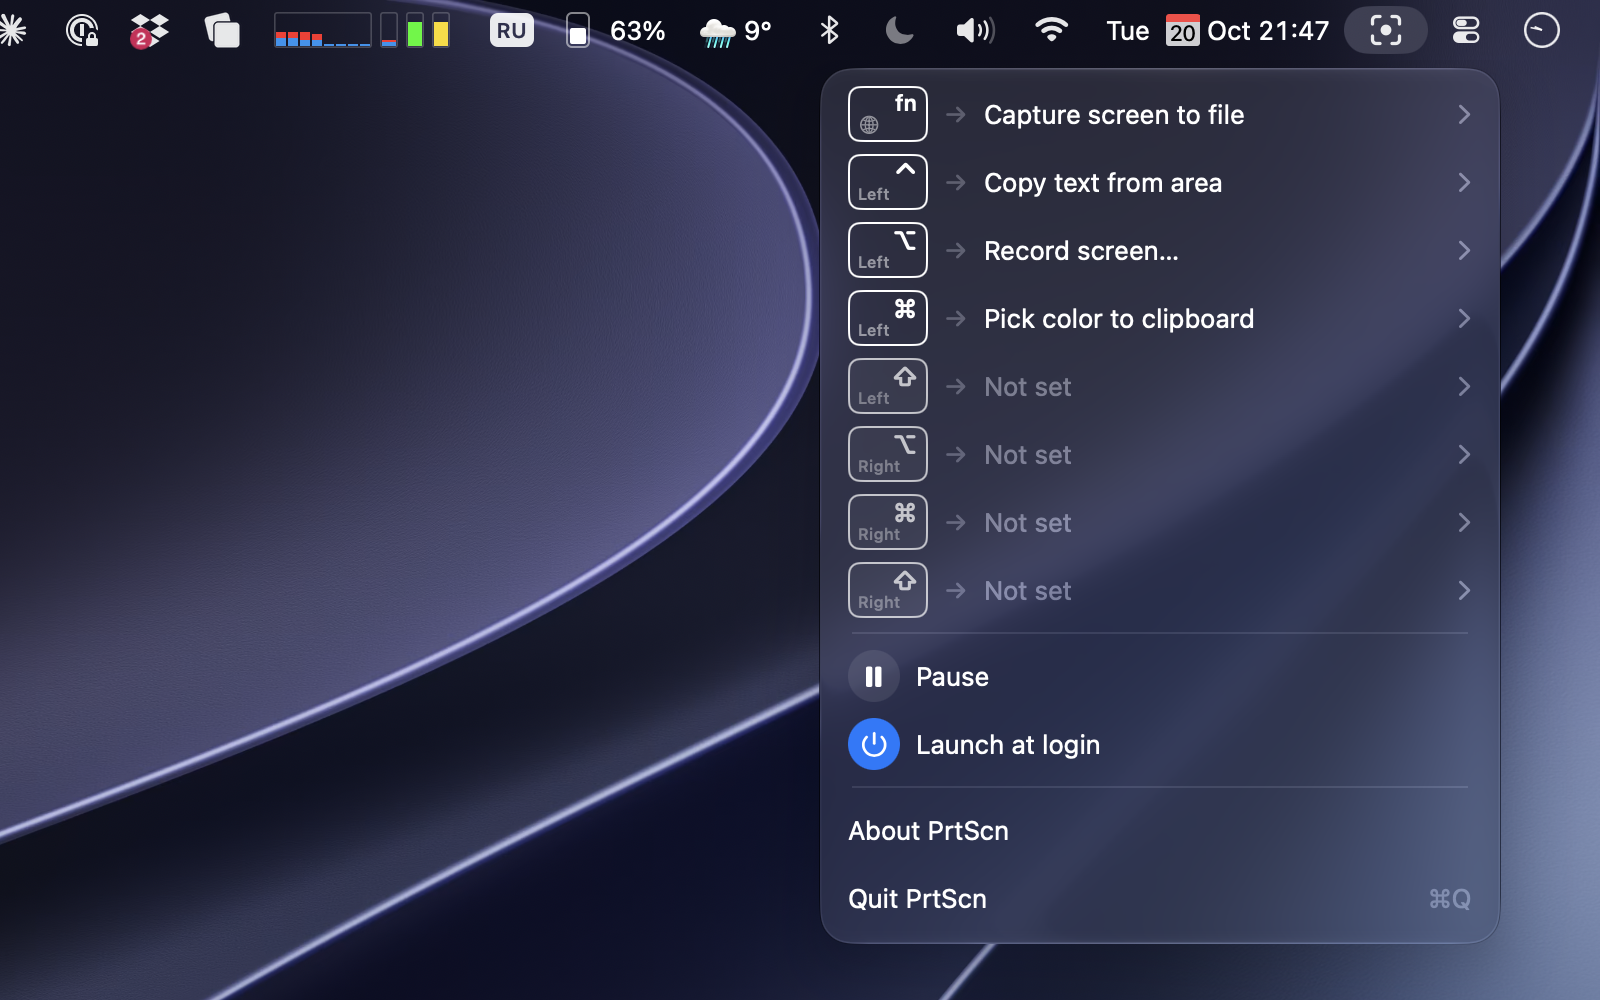
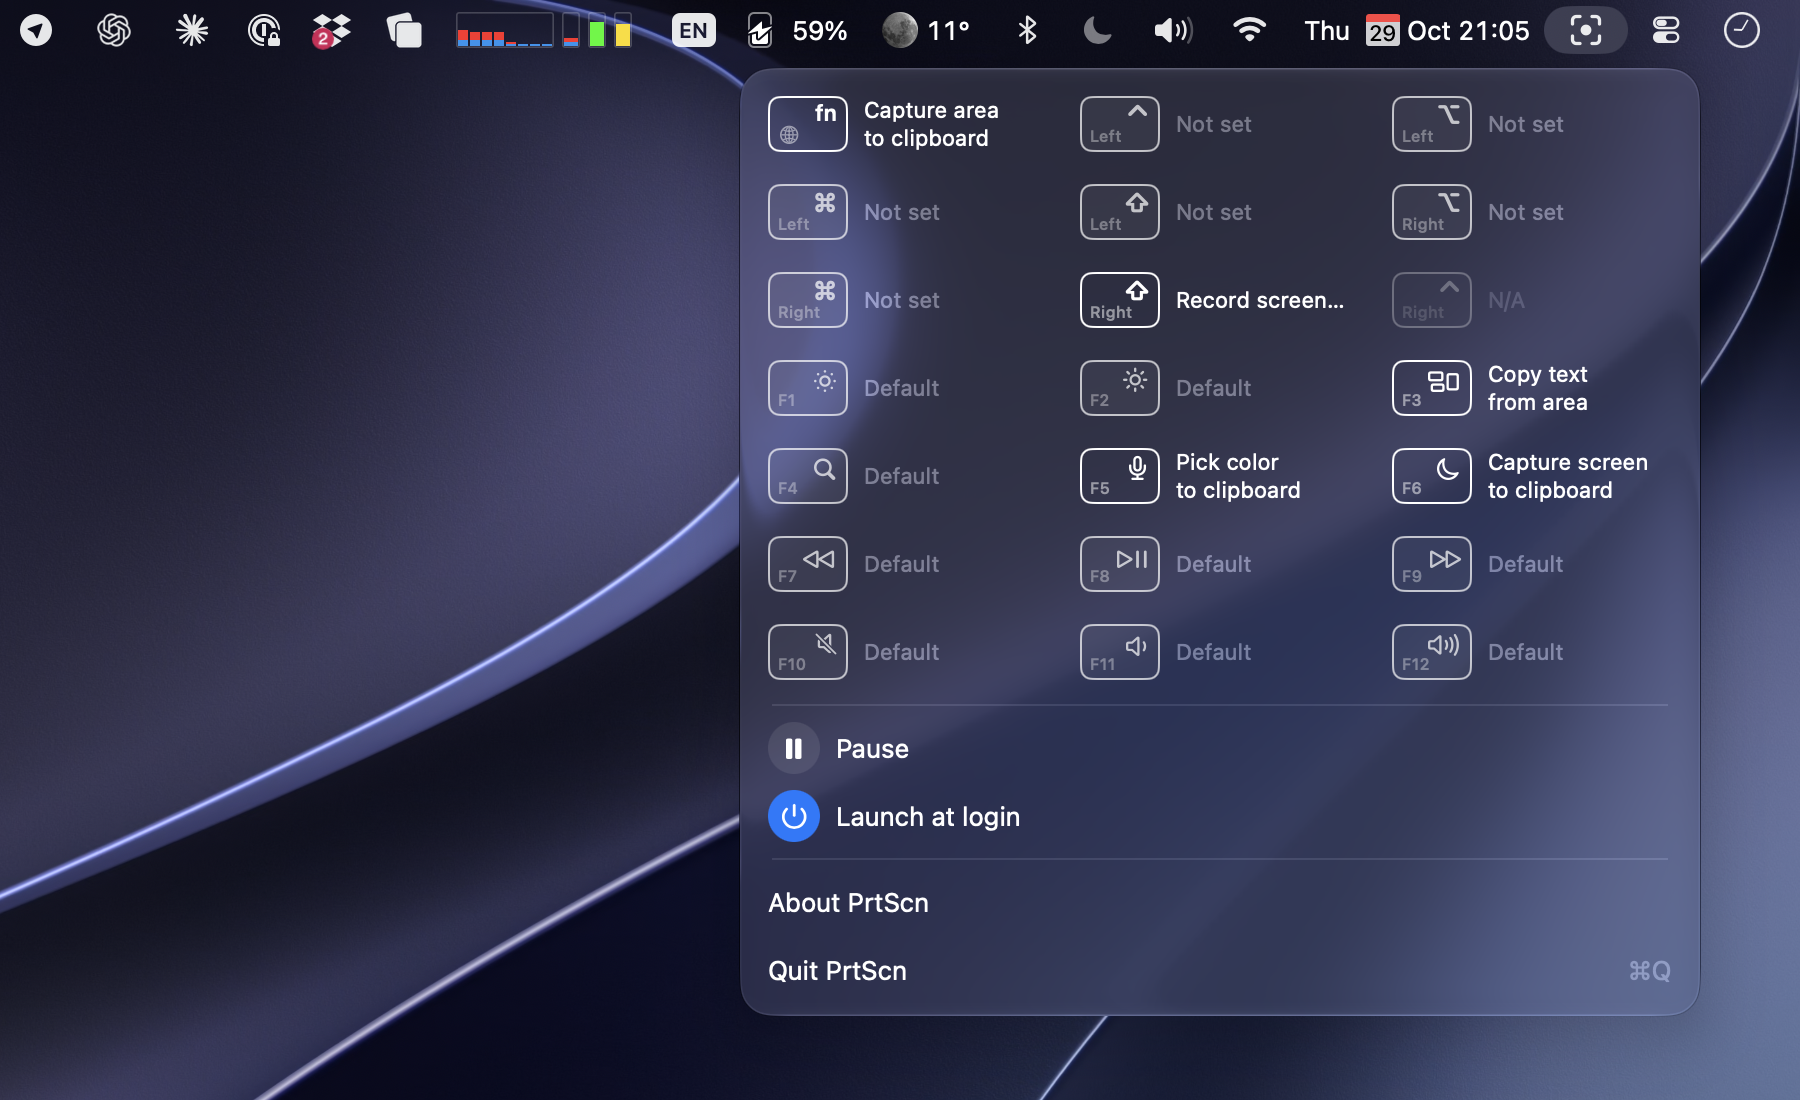
README: top-row keys, Right Control, Accessibility permission; new menu screenshots

diff --git a/README.md b/README.md
@@ -26,7 +26,7 @@
 
 ## How it works
 
-Tap <kbd>🌐 fn</kbd> or another modifier key on its own, and PrtScn runs the action you assigned to it. It uses the standard macOS screenshot tools you're already used to.
+Tap <kbd>🌐 fn</kbd> or another modifier key on its own, or press one of the MacBook top-row keys, and PrtScn runs the action you assigned to it. It uses the standard macOS screenshot tools you're already used to.
 
 Beyond screenshots, a key can also do a few handy screen tricks: pick the color of any pixel, copy the text from any area of the screen straight to the clipboard, or capture an area and jump right into Markup to annotate it.
 
@@ -37,12 +37,16 @@ Beyond screenshots, a key can also do a few handy screen tricks: pick the color 
   </picture>
 </p>
 
-Only a clean single press counts. Holding the key with anything else (another key, a modifier, a click, a scroll), or for longer than a quick tap, does nothing, so shortcuts like <kbd>⌥</kbd><kbd>⌘</kbd><kbd>X</kbd>, <kbd>fn</kbd><kbd>F1</kbd> or <kbd>⌃</kbd>-click keep working.
+For modifier keys, only a clean single tap counts. Holding the key with anything else (another key, a modifier, a click, a scroll), or for longer than a quick tap, does nothing, so shortcuts like <kbd>⌥</kbd><kbd>⌘</kbd><kbd>X</kbd>, <kbd>fn</kbd><kbd>F1</kbd> or <kbd>⌃</kbd>-click keep working. A tap right after typing is ignored too, so brushing a modifier mid-sentence doesn't take a screenshot.
+
+Top-row keys (<kbd>F1</kbd>–<kbd>F12</kbd> as pressed without fn: brightness, Mission Control, Spotlight, media, volume) fire on press and replace their usual action. Keys you leave on **Default** keep working as before, and so does any top-row key pressed with <kbd>⌘</kbd>, <kbd>⌥</kbd>, <kbd>⌃</kbd> or <kbd>⇧</kbd>. Assigning <kbd>F8</kbd> also stops it from launching Music.
 
 ## Features
 
 - **Eight actions**: capture screen or area to file or clipboard, **Capture area & edit** (opens the Markup editor), **Copy text from area** (on-device OCR), **Pick color to clipboard** (as `#RRGGBB`), or **Record screen…** (opens the macOS screenshot toolbar in recording mode)
-- **Eight keys**: Fn / Globe, Control, and left and right Option, Command and Shift, each with its own action
+- **21 keys**, each with its own action:
+  - **Modifiers**: Fn / Globe, left and right Control, Option, Command and Shift. Right Control shows as N/A unless a keyboard that has one is connected
+  - **Top row**: F1–F12, shown with their MacBook keycap symbols
 - **Pause** without quitting
 - **Launch at login**
 
@@ -50,7 +54,8 @@ Only a clean single press counts. Holding the key with anything else (another ke
 
 | Permission | Why |
 |---|---|
-| **Input Monitoring** | Notice single key presses, including 🌐 fn. Asked when you assign your first key; listen-only, keys are never blocked or changed |
+| **Input Monitoring** | Notice single key presses, including 🌐 fn. Asked when you assign your first key; listen-only, modifier keys are never blocked or changed |
+| **Accessibility** | Block the usual action of an assigned top-row key (brightness, volume…) so only yours runs. Asked when you assign your first F-key; not needed otherwise |
 | **Screen Recording** | Take screenshots; macOS asks on the first capture |
 
 Grant them in **System Settings → Privacy & Security**; no restart needed. If you use fn, also set **System Settings → Keyboard → Press 🌐 key to** to **Do Nothing**.
